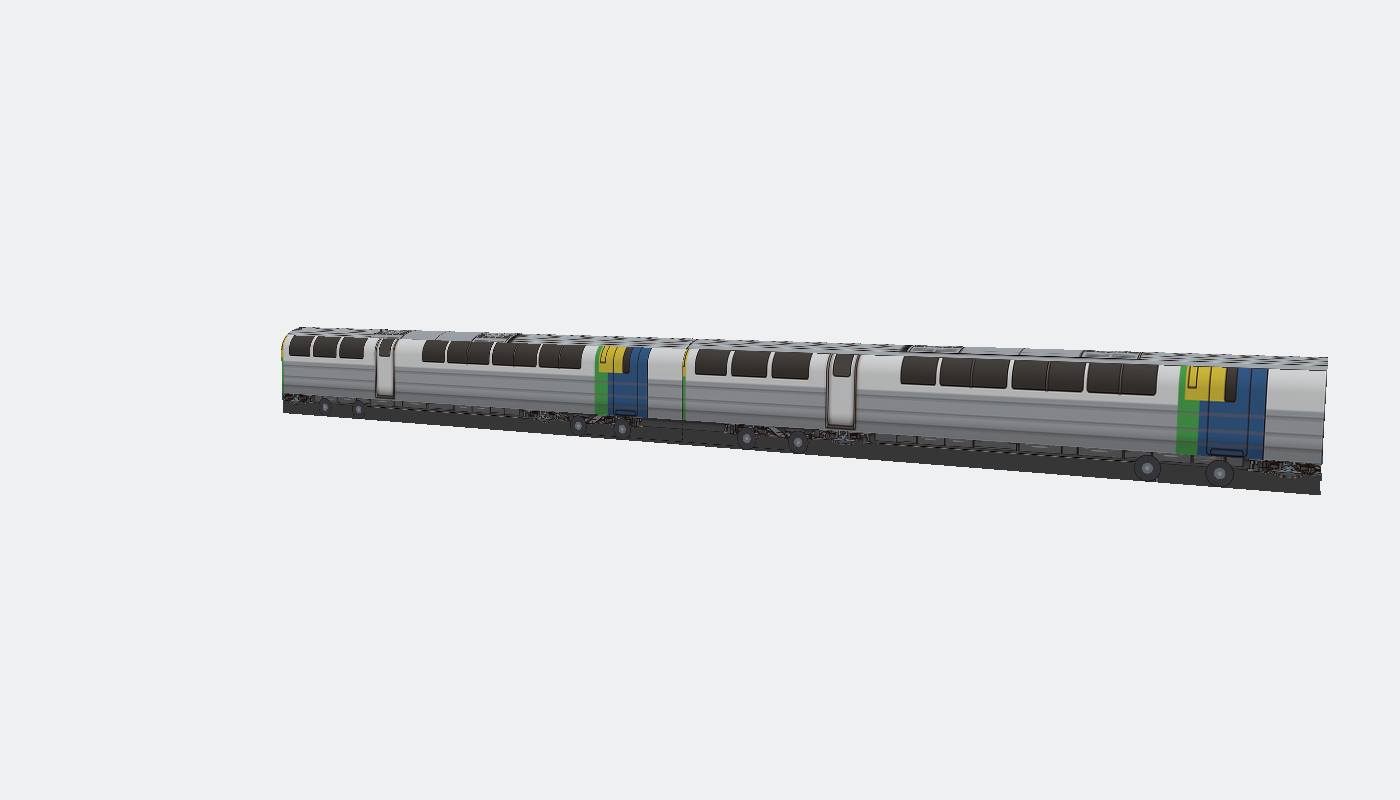
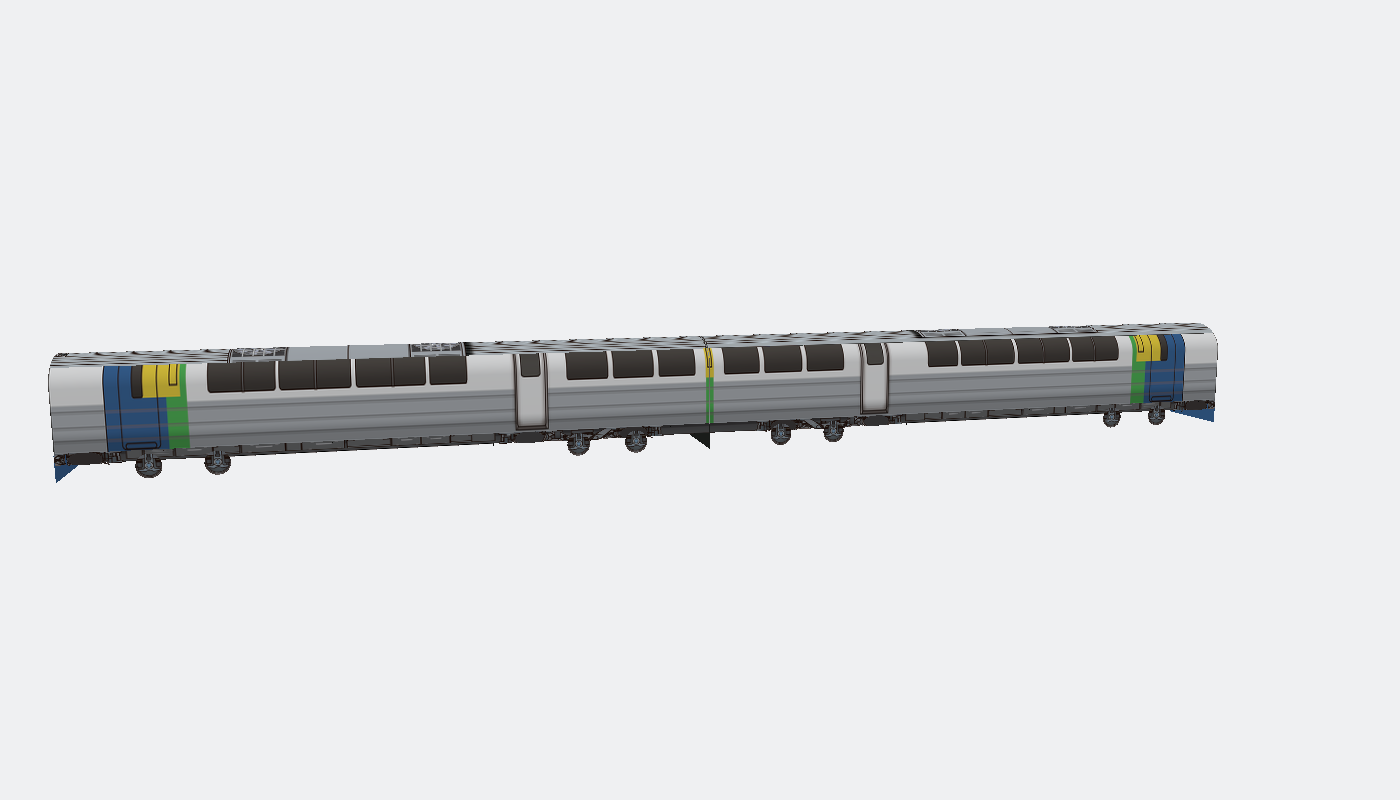
Rework jr-hokkaido-kiha261 audit images (2026-11-26)
- batch50 #38: refresh 3 images to the fixed consist (cabs outward,
  gangways facing each other) + rework note; links to the rework page.
- New rework-only page rework-kiha261-20261126: before/after side view,
  3 fixed user views, 2 end验收 views (both outer ends are the blue
  driving-cab face). Model fix in floral-salad-8734 c196494.

Changed region(s): [[0.0307, 0.4062, 0.9521, 0.625]]

diff --git a/rework-kiha261-20261126/index.html b/rework-kiha261-20261126/index.html
@@ -1,0 +1,51 @@
+<!DOCTYPE html>
+<html lang="zh-CN">
+<head>
+<meta charset="utf-8">
+<meta name="viewport" content="width=device-width, initial-scale=1">
+<title>返工 1 辆单独审核（2026-11-26）：JR北海道キハ261系</title>
+<style>
+  body { font-family: -apple-system, "PingFang SC", "Microsoft YaHei", sans-serif; margin: 0; background: #f4f4f4; color: #222; }
+  header { background: #1a3a5c; color: #fff; padding: 20px 24px; }
+  header h1 { margin: 0 0 6px; font-size: 22px; }
+  header p { margin: 0; opacity: .85; font-size: 14px; }
+  header p.fixnote { margin-top: 8px; opacity: .95; }
+  nav { background: #fff; border-bottom: 1px solid #ddd; padding: 10px 24px; position: sticky; top: 0; }
+  nav a { margin-right: 12px; font-size: 13px; color: #1a3a5c; text-decoration: none; }
+  main { max-width: 1100px; margin: 0 auto; padding: 8px 16px 40px; }
+  section { background: #fff; margin: 16px 0; padding: 16px 20px 20px; border-radius: 8px; }
+  section h2 { margin: 0 0 4px; font-size: 18px; }
+  section h2 .mid { font-size: 13px; color: #666; font-weight: normal; }
+  section p.lines { margin: 0 0 12px; font-size: 13px; color: #555; }
+  .imgs { display: grid; grid-template-columns: 1fr; gap: 12px; }
+  figure { margin: 0; }
+  figure img { width: 100%; display: block; border: 1px solid #ddd; border-radius: 4px; }
+  figcaption { font-size: 13px; color: #555; margin-top: 4px; }
+  .before { border: 2px dashed #c0392b; border-radius: 4px; padding: 8px; }
+  .before figcaption { color: #c0392b; }
+</style>
+</head>
+<body>
+<header>
+  <h1>返工 1 辆单独审核（2026-11-26）</h1>
+  <p>只放返工的车：JR北海道キハ261系 0番台（2 辆编组）。分支 models-pipeline，提交 c196494。</p>
+  <p class="fixnote">用户反馈（2026-11-26 22:29）：“编组的时候司机室没有面朝两端”。诊断：两车单看都对（car1 司机室在 z=0 端、car2 司机室在 z=21.67 端），但按原 consist [car1, car2] 编组后，两端外侧都是贯通端、两个司机室在中间面对面——审核图与站内模拟一致复现。另查出侧面贴图镜像缺陷：蓝色司机端侧面（黄乘务员门）在每辆车的一侧落在司机端、另一侧落在贯通端。</p>
+  <p class="fixnote">返工：① consist.json 车序对调为 [car2, car1]（不加 flip；站内首尾对调后两端仍为司机室朝外，审核与站内一致）；② car1 的 −X 面、car2 的 +X 面侧面贴图 U 镜像（u→1−u），蓝色司机端侧面回到司机端；③ 顺手修正名字笔误 0番代→0番台。位置、法线、三角、材质、贴图与涂装均未动。两端验收图（end_plusZ / end_minusZ）均为蓝色司机面。</p>
+</header>
+<nav><a href="#jr-hokkaido-kiha261">1</a></nav>
+<main>
+    <section id="jr-hokkaido-kiha261">
+      <h2>1. JR北海道キハ261系 0番台 <span class="mid">jr-hokkaido-kiha261</span></h2>
+      <p class="lines">映射线路：宗谷本線、石北本線。2 辆编组（キハ261 + キハ260）。返工提交 c196494（models-pipeline）。第 50 批审核页（batch50 #38）图片已同步更新为返工后版本。</p>
+      <div class="imgs">
+      <figure class="before"><img src="jr-hokkaido-kiha261/before_consist_side.png" alt="返工前整列"><figcaption>返工前（整列）：两端外侧是灰色贯通端，司机室藏在中间；右侧车的蓝色司机端侧面落在外侧贯通端</figcaption></figure>
+      <figure><img src="jr-hokkaido-kiha261/user_consist_side.png" alt="整列"><figcaption>整列（返工后）：两端蓝色司机端朝外，中间贯通端相对</figcaption></figure>
+      <figure><img src="jr-hokkaido-kiha261/user_oblique.png" alt="斜视角"><figcaption>斜视角（返工后）</figcaption></figure>
+      <figure><img src="jr-hokkaido-kiha261/user_3dform.png" alt="三维形态图"><figcaption>三维形态图（返工后）</figcaption></figure>
+      <figure><img src="jr-hokkaido-kiha261/end_plusZ.png" alt="+Z 端验收"><figcaption>两端验收 +Z 端：蓝色司机面（风挡 + HET261 + 前灯）</figcaption></figure>
+      <figure><img src="jr-hokkaido-kiha261/end_minusZ.png" alt="-Z 端验收"><figcaption>两端验收 −Z 端：蓝色司机面（风挡 + HET261 + 前灯）</figcaption></figure>
+      </div>
+    </section>
+</main>
+</body>
+</html>

diff --git a/batch50/index.html b/batch50/index.html
@@ -367,6 +367,7 @@
     <section id="jr-hokkaido-kiha261">
       <h2>38. JR北海道キハ261系 <span class="mid">jr-hokkaido-kiha261</span></h2>
       <p class="lines">映射线路：宗谷本線、石北本線</p>
+      <p class="lines">返工（2026-11-26）：编组时司机室未朝两端——consist 车序对调为 [car2, car1]，两端司机室朝外、贯通端相对；另修正侧面贴图镜像（car1 −X 面、car2 +X 面 U 镜像），蓝色司机端侧面回到司机端；名字笔误 0番代→0番台。提交 c196494。图片为返工后版本，单车返工页：<a href="../rework-kiha261-20261126/">rework-kiha261-20261126</a>。</p>
       <div class="imgs">
       <figure><img src="jr-hokkaido-kiha261/user_consist_side.png" alt="整列"><figcaption>整列</figcaption></figure>
       <figure><img src="jr-hokkaido-kiha261/user_oblique.png" alt="斜视角"><figcaption>斜视角</figcaption></figure>
